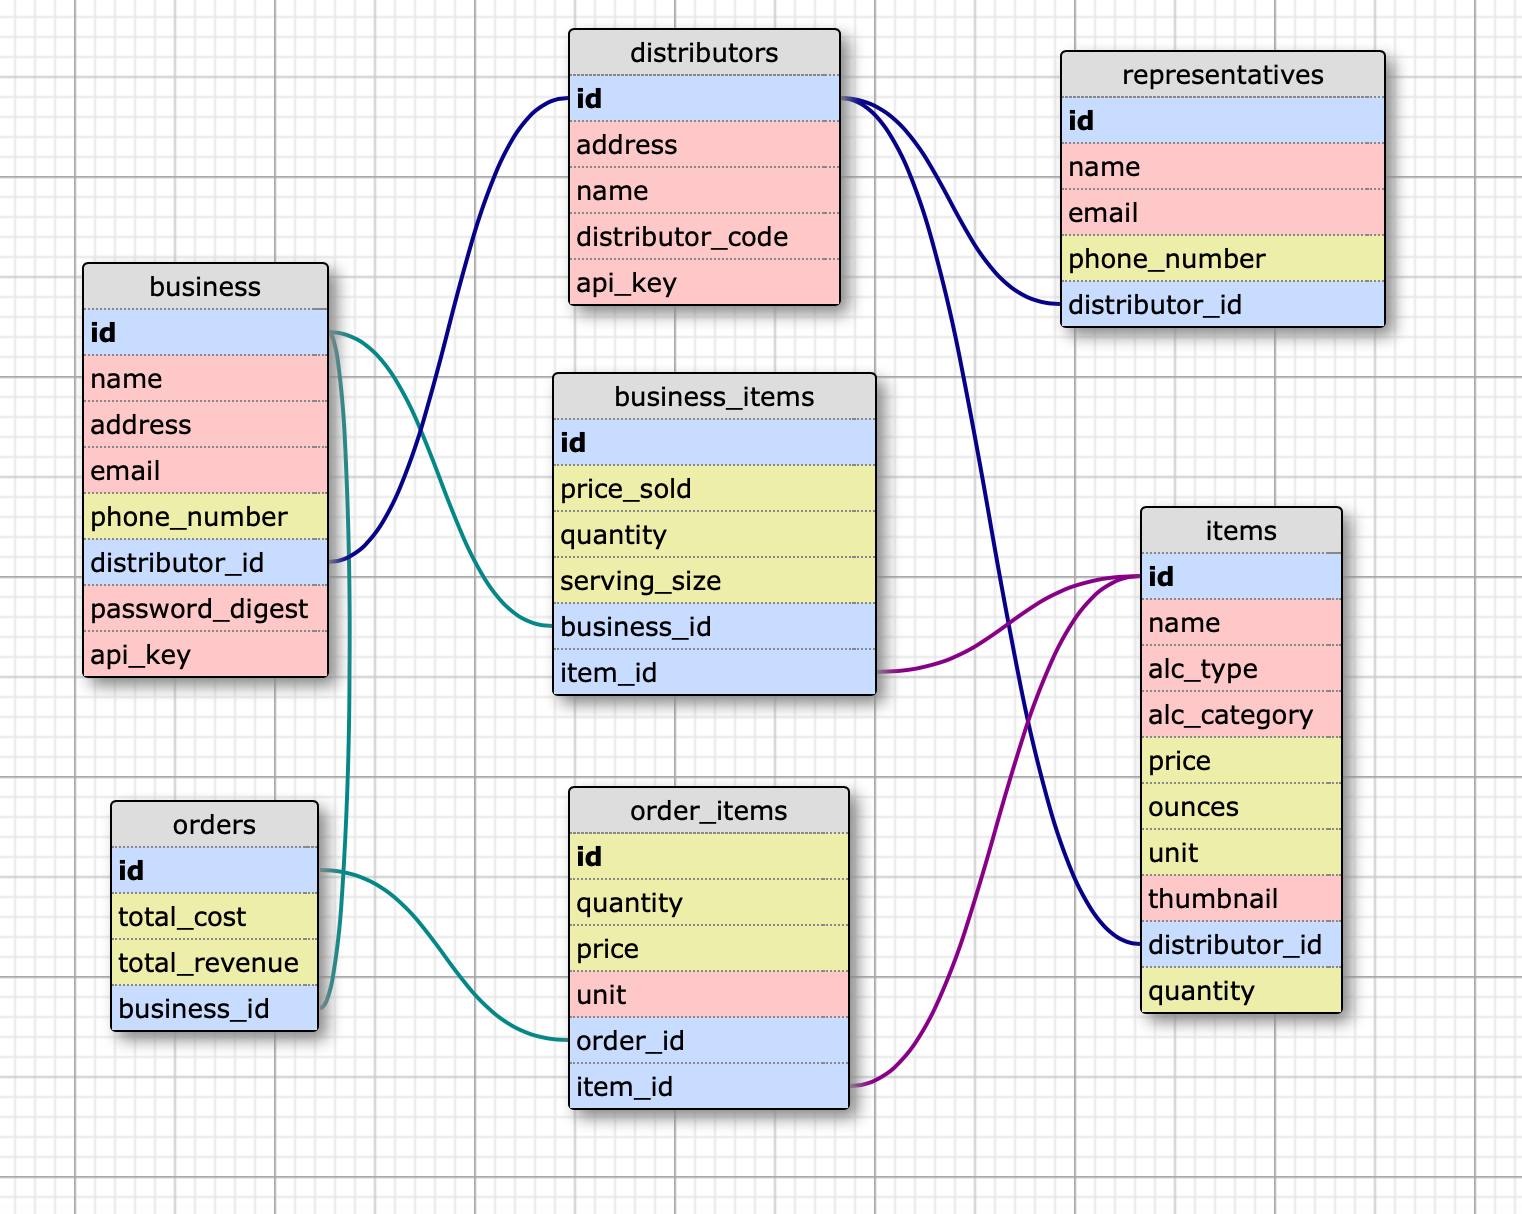
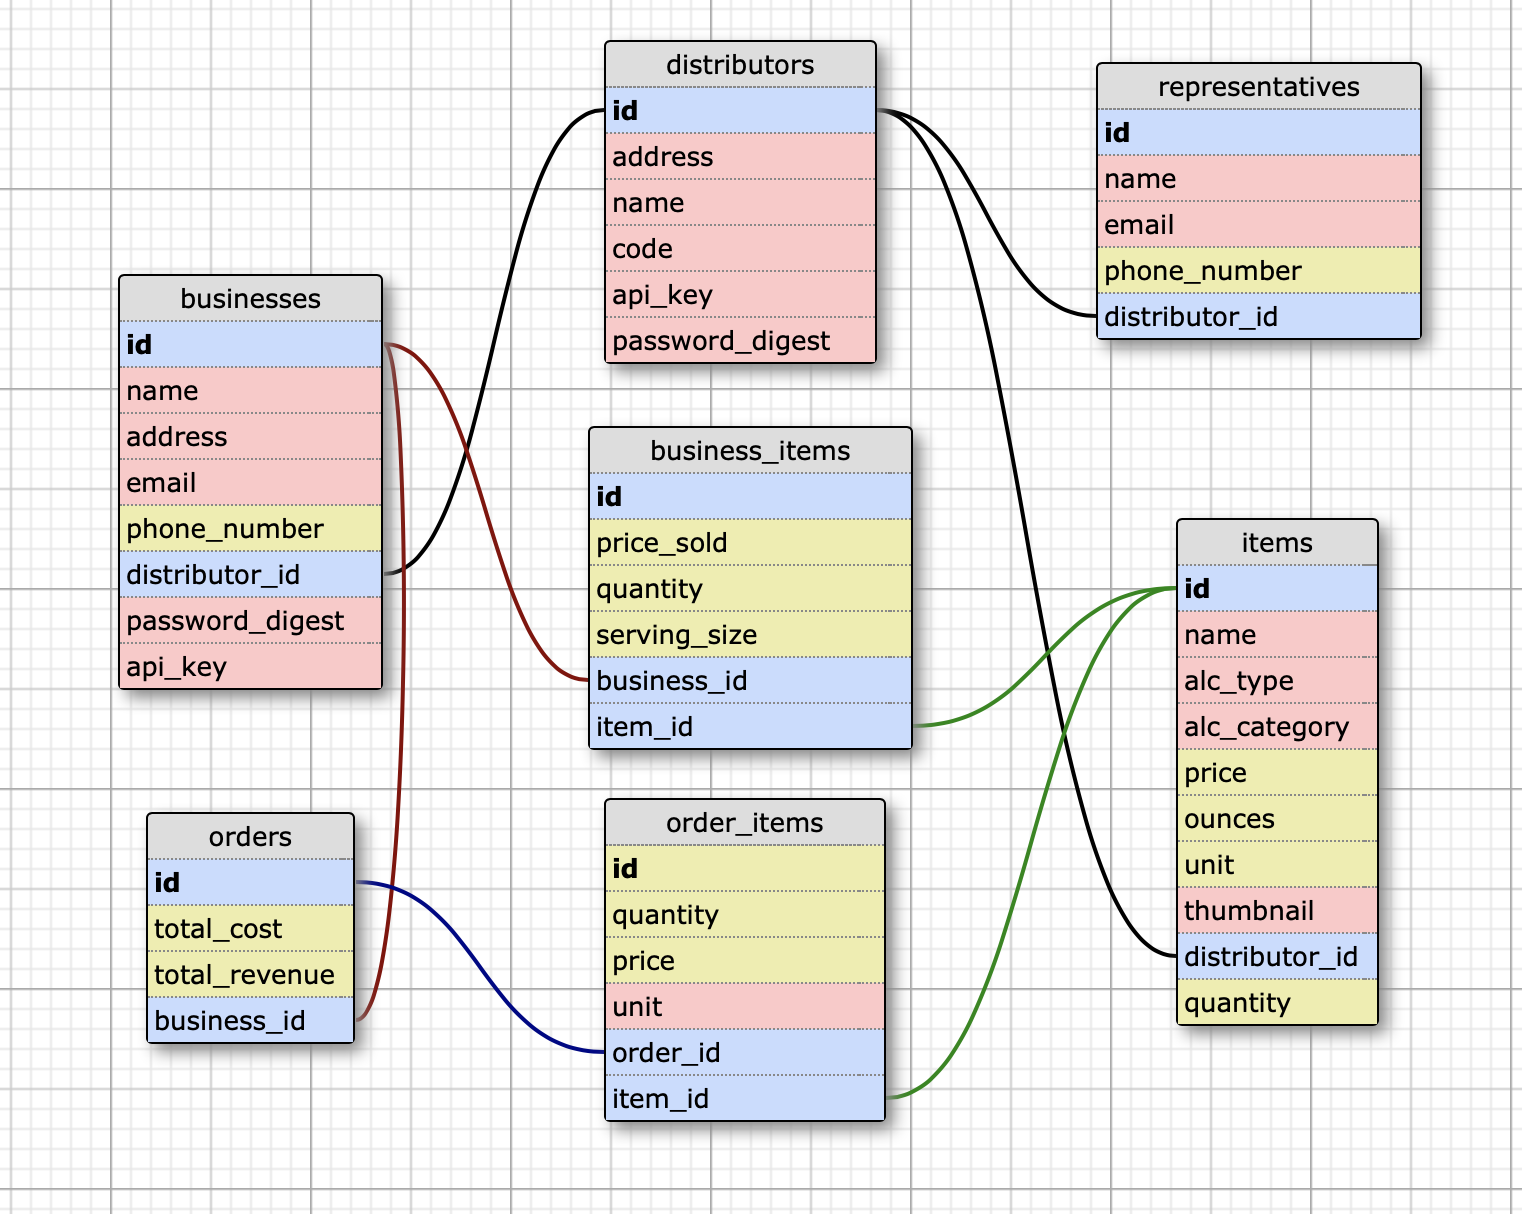
All tests passing

diff --git a/spec/requests/api/v1/items_request_spec.rb b/spec/requests/api/v1/items_request_spec.rb
@@ -5,13 +5,13 @@ describe 'Items API', :type => :request do
     it 'sends a list of items for a successful request' do
       distributor_1 = Distributor.create!(name: 'RNDC',
                                           address: '3319 Arapahoe st, Denver, CO',
-                                          distributor_code: 'CODE12345',
+                                          code: 'CODE12345',
                                           api_key: 'jgn983hy48thw9begh98h4539h41',
                                           password: 'password'
                                           )
       distributor_2 = Distributor.create!(name: 'Other',
                                           address: 'other',
-                                          distributor_code: 'other',
+                                          code: 'other',
                                           api_key: 'other',
                                           password: 'other'
                                           )

diff --git a/spec/models/item_spec.rb b/spec/models/item_spec.rb
@@ -28,13 +28,13 @@ RSpec.describe Item, type: :model do
 
       distributor_1 = Distributor.create!(name: "RNDC",
                                           address: "3319 Arapahoe st, Denver, CO",
-                                          distributor_code: "CODE1234",
+                                          code: "CODE1234",
                                           api_key: "jgn983hy48thw9begh98h4539h4",
                                           password: "password"
                                           )
       distributor_2 = Distributor.create!(name: "Other",
                                           address: "other",
-                                          distributor_code: "other",
+                                          code: "other",
                                           api_key: "other",
                                           password: "other"
                                           )
